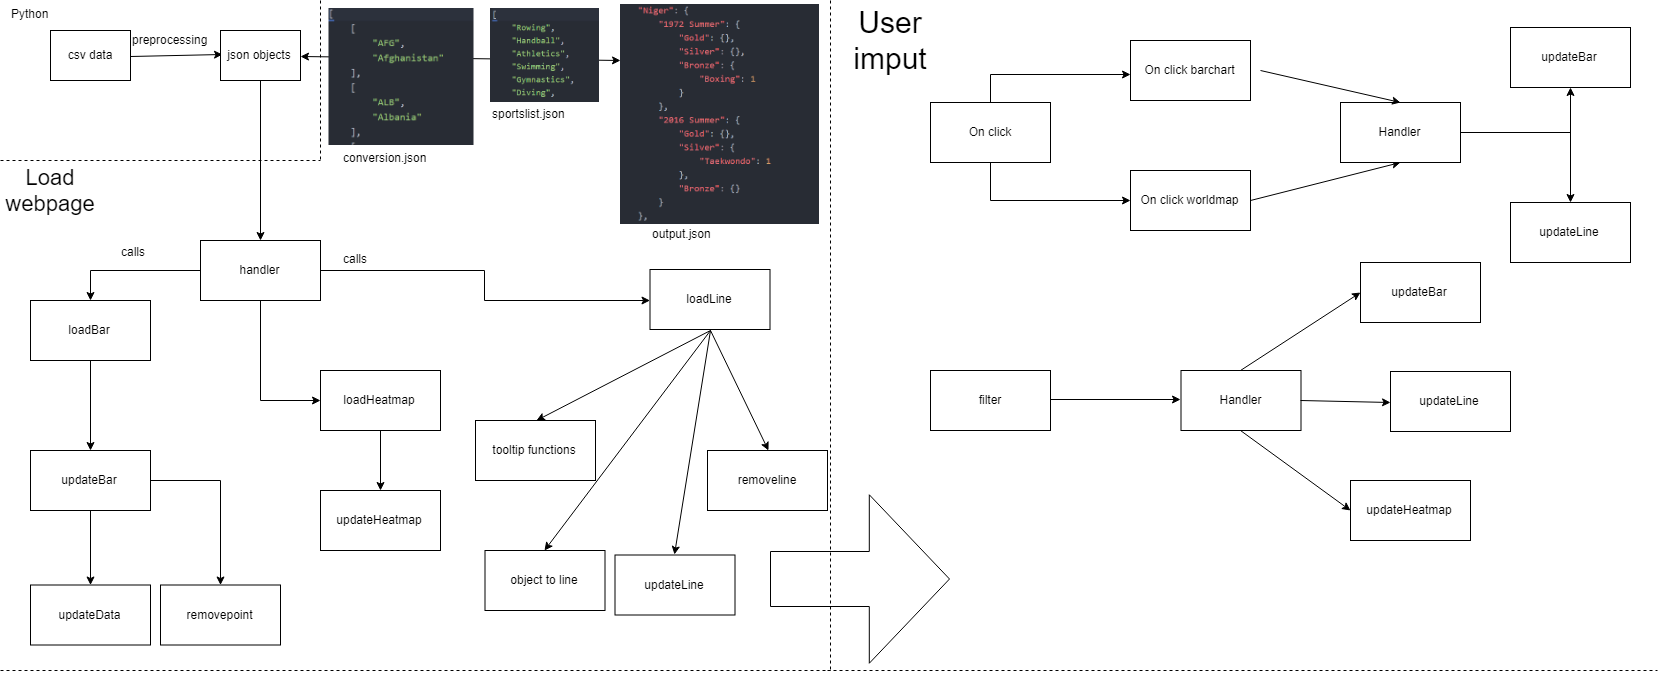
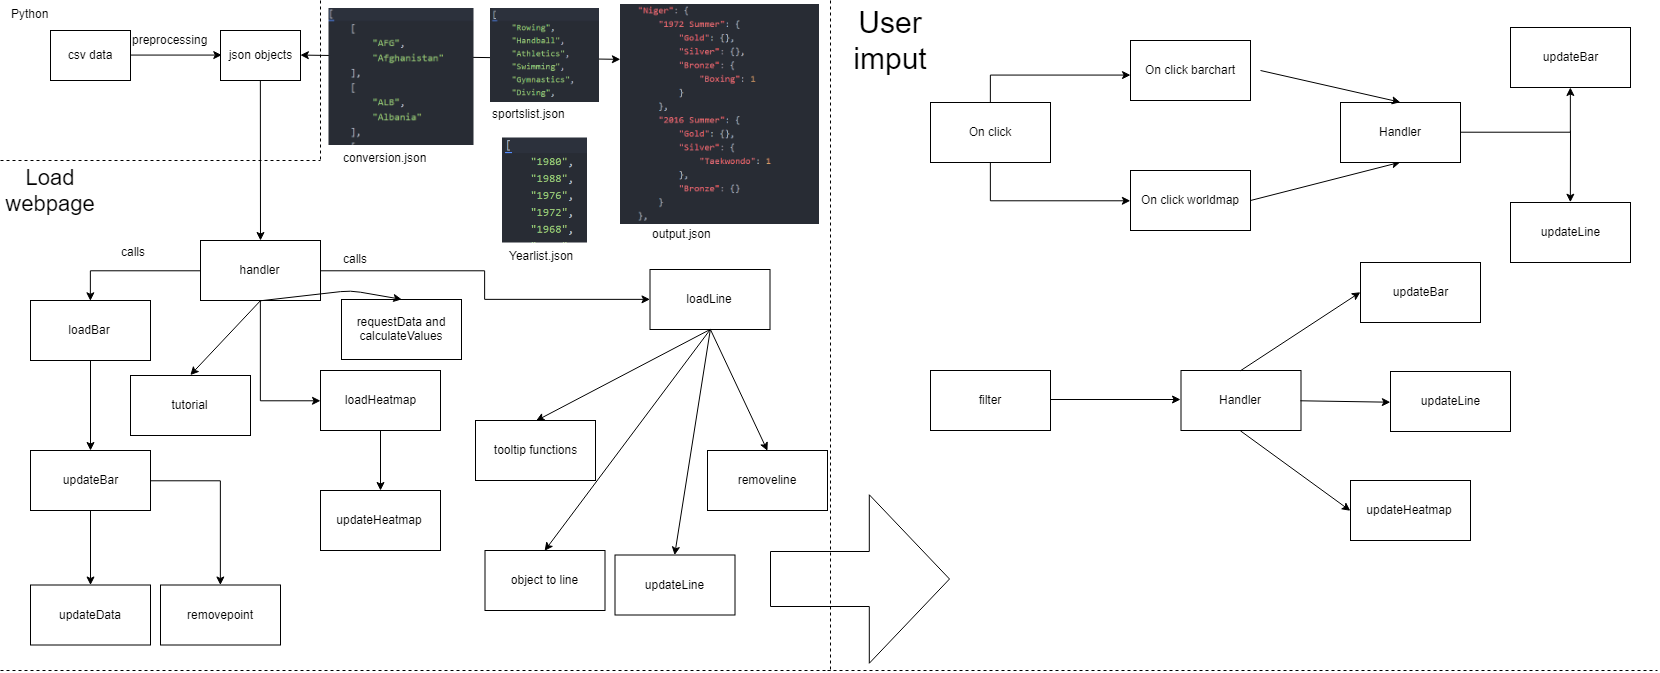
changed the uml a bit

diff --git a/REPORT.md b/REPORT.md
@@ -15,8 +15,8 @@ Scraper.py scrapes wikipedia for a national olympic comitee -> country name conv
 
 csvtojson.py converts the csv to a handy json designed specifically for my webpage. csvtojson uses the conversion.json.
 Not only does it output the data (to output) it also makes a list of all the years and sports.
-Years are useful because then i know when a country has 0 medals
-Sports is useful for the  sportsfilter
+Years are useful to detect when a country has 0 medals
+Sports is useful for the sportsfilter
 
 My web application its building block is the 'handler' function (in the data and helpers file). This function calls all the relevant make graph functions (bar, line, heatmap). These functions then return the update function to update these graphs.
 
@@ -30,6 +30,8 @@ Everything in the object will be added to the graph. These objects can be reques
 
 the final design can be seen in detail the following UML:
 ![Finalstructure](docs/finalstructure.png)
+
+the handler also starts a tutorial omitted from the UML (basicly a skippable slide show)
 
 The proposal has been followed when possible. However some changes were made as seen in the following chart:
 
